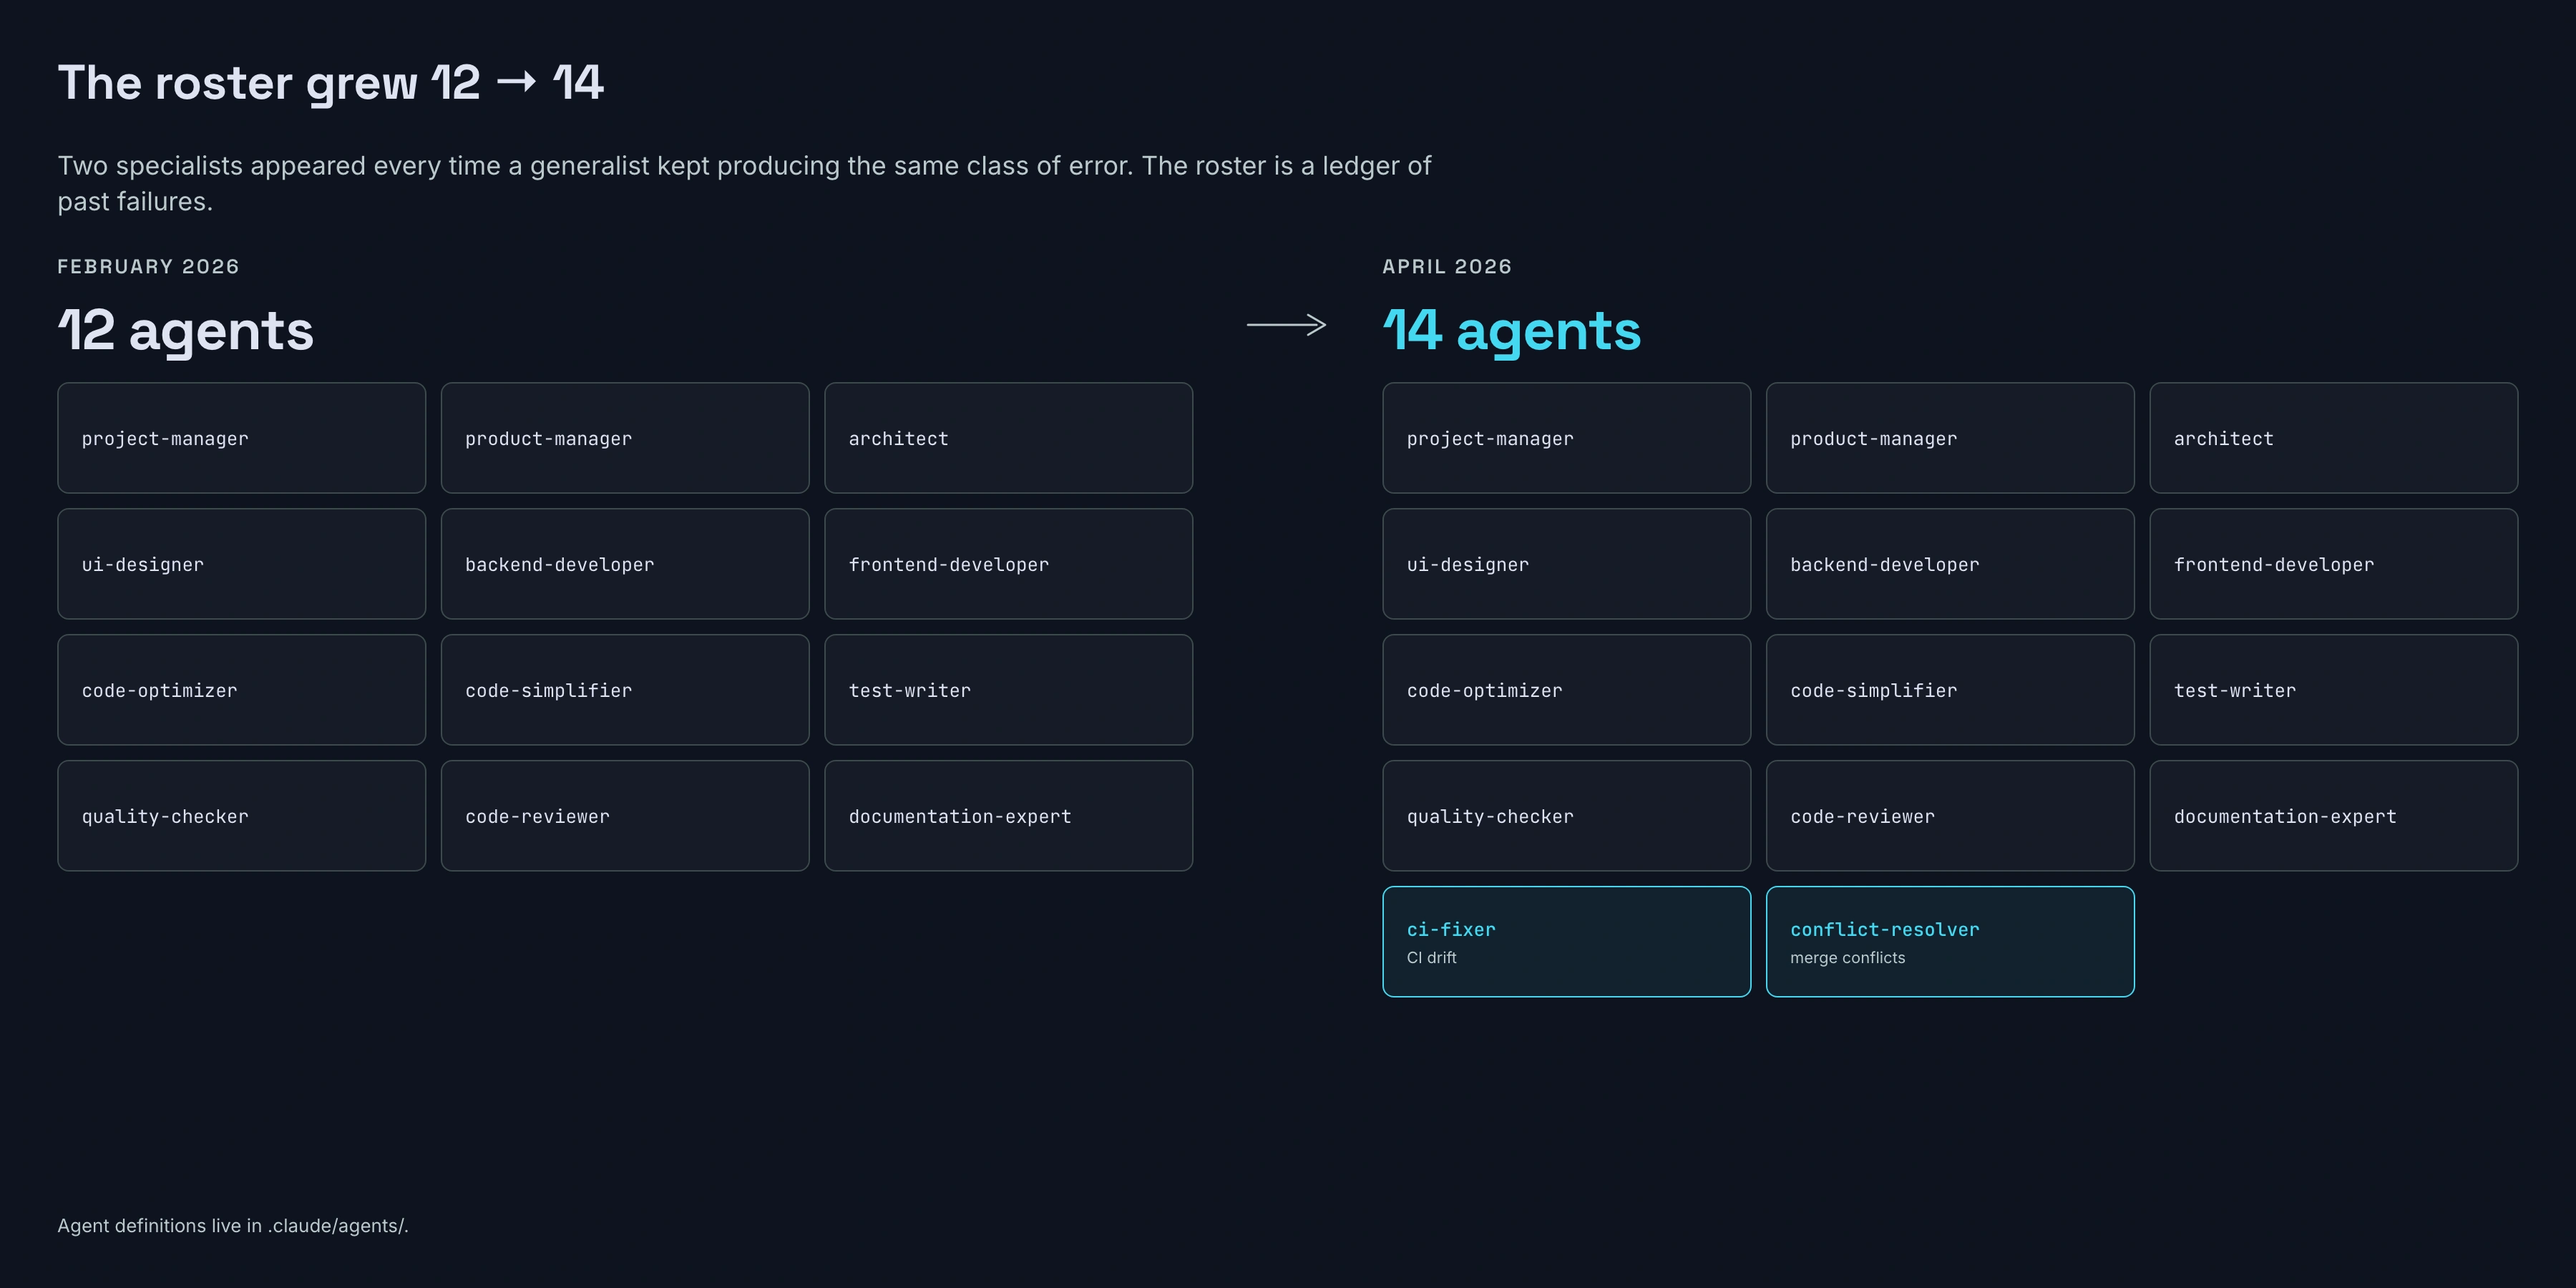
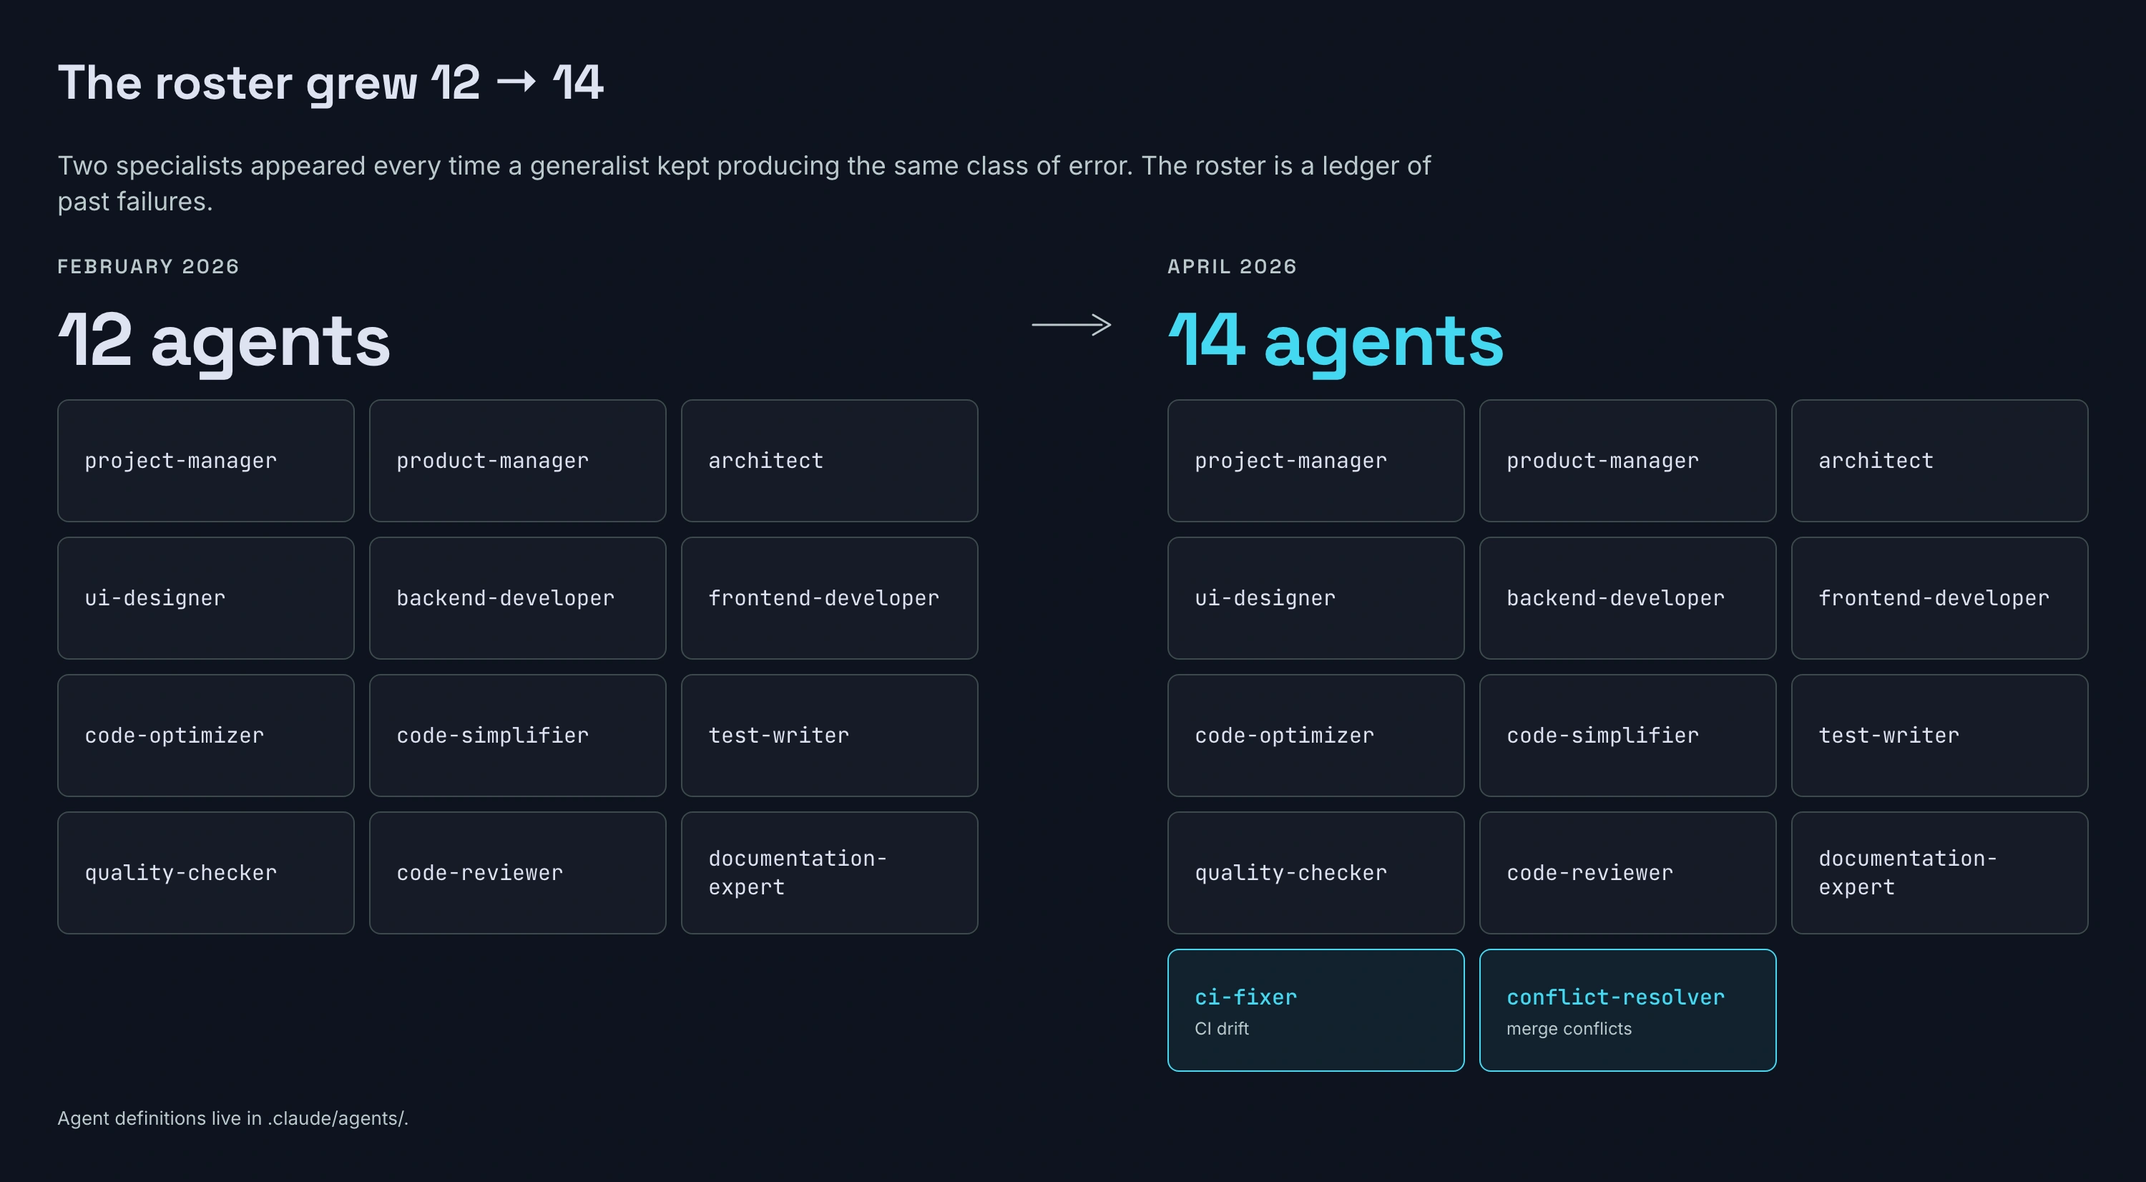
Bump grid-diff text sizes and tight-crop the container
Larger cell, count, and note font sizes plus a narrower render width
keep the chart readable once scaled down to the article's 1080px wide
display. Dropping min-height: 100vh crops trailing whitespace.

diff --git a/charts/templates/grid-diff.html b/charts/templates/grid-diff.html
@@ -17,7 +17,7 @@
 }
 html, body { margin: 0; padding: 0; background: var(--bg); font-family: var(--font-sans); color: var(--text); -webkit-font-smoothing: antialiased; }
 #chart-container {
-  width: 100vw; min-height: 100vh;
+  width: 100vw;
   padding: 36px 40px; box-sizing: border-box;
   background: var(--bg);
   display: flex; flex-direction: column; gap: 24px;
@@ -34,7 +34,7 @@ html, body { margin: 0; padding: 0; background: var(--bg); font-family: var(--fo
 }
 .side-count {
   font-family: var(--font-display);
-  font-size: 40px; font-weight: 700; line-height: 1;
+  font-size: 52px; font-weight: 700; line-height: 1;
   letter-spacing: -0.02em; margin: 0; color: var(--text);
 }
 .side.right .side-count { color: var(--cyan-500); }
@@ -47,10 +47,10 @@ html, body { margin: 0; padding: 0; background: var(--bg); font-family: var(--fo
   background: var(--surface-1);
   border: 1px solid var(--border);
   border-radius: 8px;
-  padding: 12px 16px;
+  padding: 14px 18px;
   font-family: var(--font-mono);
-  font-size: 13px; color: var(--text);
-  min-height: 52px;
+  font-size: 15px; color: var(--text);
+  min-height: 56px;
   display: flex; flex-direction: column; justify-content: center; align-items: flex-start; gap: 2px;
 }
 .cell.new {
@@ -60,7 +60,7 @@ html, body { margin: 0; padding: 0; background: var(--bg); font-family: var(--fo
   font-weight: 500;
 }
 .cell .note {
-  display: block; font-size: 11px; color: var(--text-muted);
+  display: block; font-size: 12px; color: var(--text-muted);
   margin-top: 2px; font-family: var(--font-sans); font-weight: 400;
 }
 .cell.new .note { color: var(--text-muted); }
